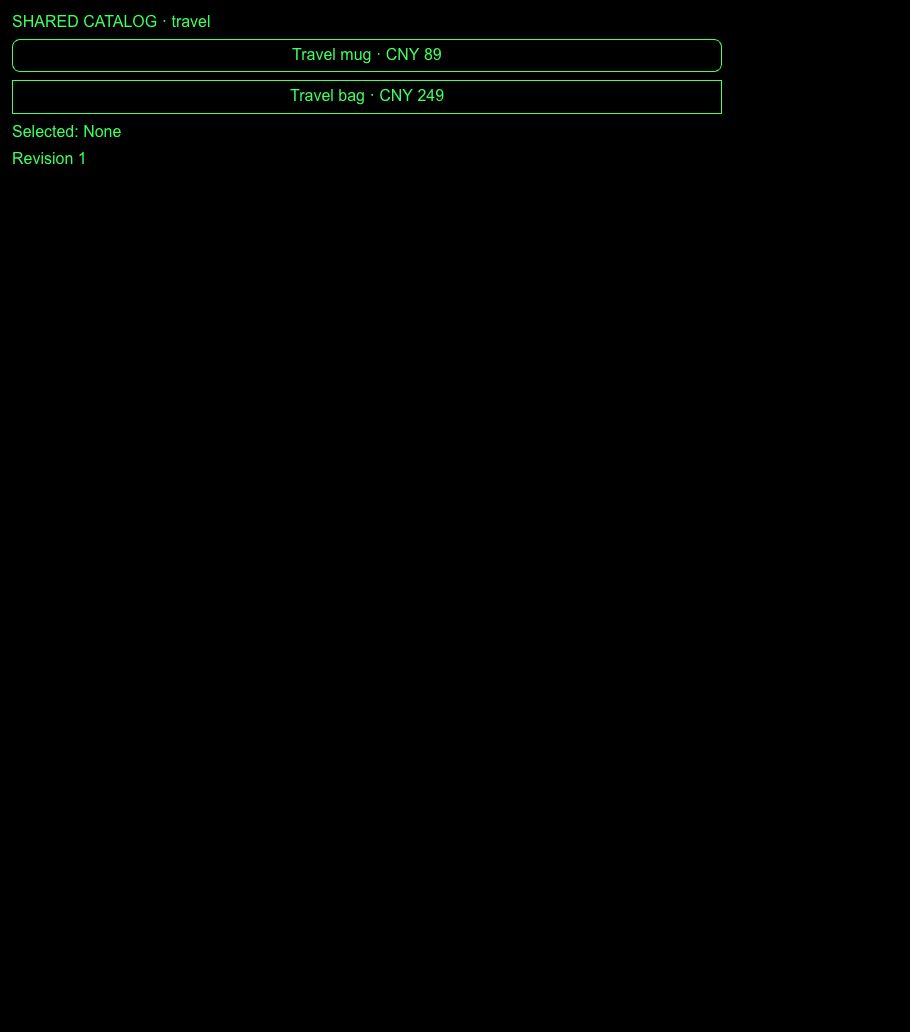
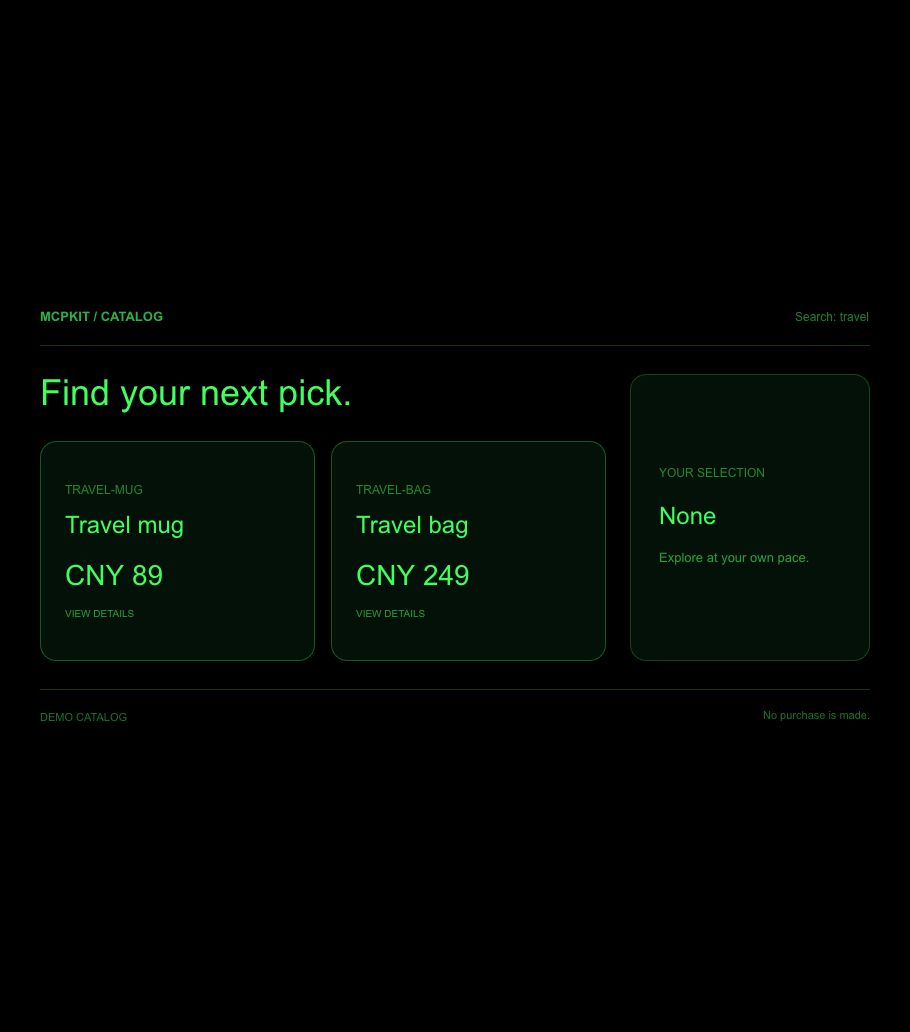
docs: refresh shared App screenshots
Use the current fullscreen catalog design for the isolated desktop
instance and remove the obsolete pre-adaptation screenshot. Record
real desktop state reads for two distinct App instances and update
image references.

diff --git a/docs/validation/shared-agent-2026-10-28.md b/docs/validation/shared-agent-2026-10-28.md
@@ -71,13 +71,9 @@ Observed values from the real calls:
 
 The final search contained only Desk lamp (`DESK-LAMP`, CNY 159); detail and selection remained Travel bag (`TRAVEL-BAG`, CNY 249). Navigation is asynchronous: the immediate inspect return preceded Page `onShow`; subsequent state calls and the screenshot confirmed the completed detail navigation.
 
-The other simultaneous catalog stayed on `travel`, revision 1, with both original candidates and `Selected: None`. Its screenshot supplies real desktop isolation evidence. This earlier card used the pre-WebMCP template, so its instance ID was not read through WebMCP. Exact distinct-ID isolation, teardown and fresh-conversation state were additionally checked by the local real Ink browser test. Separate authenticated user accounts were not exercised; the UI runtime stores state only in each independent App realm and does not implement account authentication or shared persistent storage.
+The other simultaneous catalog stayed on `travel`, revision 1, with both original candidates and `Selected: None`. This earlier card used the pre-WebMCP template, so its instance ID was not read through WebMCP. The repository screenshots now show the current layout; the old layout is not included in the document. Exact distinct-ID isolation, teardown and fresh-conversation state were additionally checked by the local real Ink browser test. Separate authenticated user accounts were not exercised; the UI runtime stores state only in each independent App realm and does not implement account authentication or shared persistent storage.
 
 The user manually expanded cards. The model performed the business operations through document-bound tools. Native Codex window automation was rejected by the computer-use tool, so no native button automation was used. Desktop screenshots capture the full visible App document; the backend does not support cropped captures.
-
-![Initial desktop layout before fullscreen adaptation](../assets/shared-agent-desktop-detail-before.png)
-
-![Other desktop instance remains unselected on travel](../assets/shared-agent-desktop-isolated.png)
 
 No purchase was made. No issue was closed and no GitHub changes were published during this acceptance step.
 
@@ -87,10 +83,25 @@ The shared catalog now uses a centered, bounded-width workspace in `_blank` mode
 
 The viewport test also uncovered a runtime sizing problem: Ink writes pixel widths onto the canvas and its parent. Measuring that canvas again retained its old width when the host grew or shrank. The View now measures the document viewport width and observes it, allowing `setViewport` to update the canvas. The regression checks actual canvas widths and preserved App state while switching between inline and fullscreen at **900×1034, 1280×800, 360×700 and 480×352**, on detail, filtered search and the full three-product catalog.
 
-The user expanded the updated card in the real desktop. Document-bound tools read instance `catalog-wim4ivenp2f`, inspected and selected `TRAVEL-BAG`, then searched `lamp`. The final model-readable state retained that instance ID, the detail route, the bag detail and selection, and contained only the lamp search result (revision 5). The refreshed screenshot below was captured from that actual desktop App; it is not the browser-harness image. The original desktop screenshot is retained above for comparison.
+The user expanded the updated card in the real desktop. Document-bound tools read instance `catalog-wim4ivenp2f`, inspected and selected `TRAVEL-BAG`, then searched `lamp`. The final model-readable state retained that instance ID, the detail route, the bag detail and selection, and contained only the lamp search result (revision 5). The refreshed screenshot below was captured from that actual desktop App; it is not the browser-harness image. The repository screenshots use the current fullscreen layout.
 
 ![Adapted real desktop fullscreen layout](../assets/shared-agent-desktop-detail.png)
 
 The narrow-layout screenshot below comes from the real Ink WASM browser harness at 360×700:
 
 ![Narrow fullscreen layout](../assets/shared-agent-detail-narrow.png)
+
+## Current-layout isolation screenshot
+
+The documentation now uses the current catalog design throughout; the obsolete pre-adaptation image was removed. The isolation image was recaptured from a newly opened real desktop App, rather than retaining the old compact layout.
+
+Read-only `catalog_state` calls confirmed both displayed instances simultaneously:
+
+| Instance | Query | Route | Selected | Revision |
+| --- | --- | --- | --- | --- |
+| `catalog-vcs2qa2s2kb` | travel | search | null | 1 |
+| `catalog-wim4ivenp2f` | lamp | detail | TRAVEL-BAG | 5 |
+
+The fresh instance displayed Travel mug and Travel bag in the designed product cards, with its selection panel showing `None`. The other instance retained the bag detail and selection. This supplies real desktop distinct-ID isolation evidence using the current UI. Both checks were read-only; the screenshots do not represent a purchase.
+
+![Current desktop catalog with an independent empty selection](../assets/shared-agent-desktop-isolated.png)
